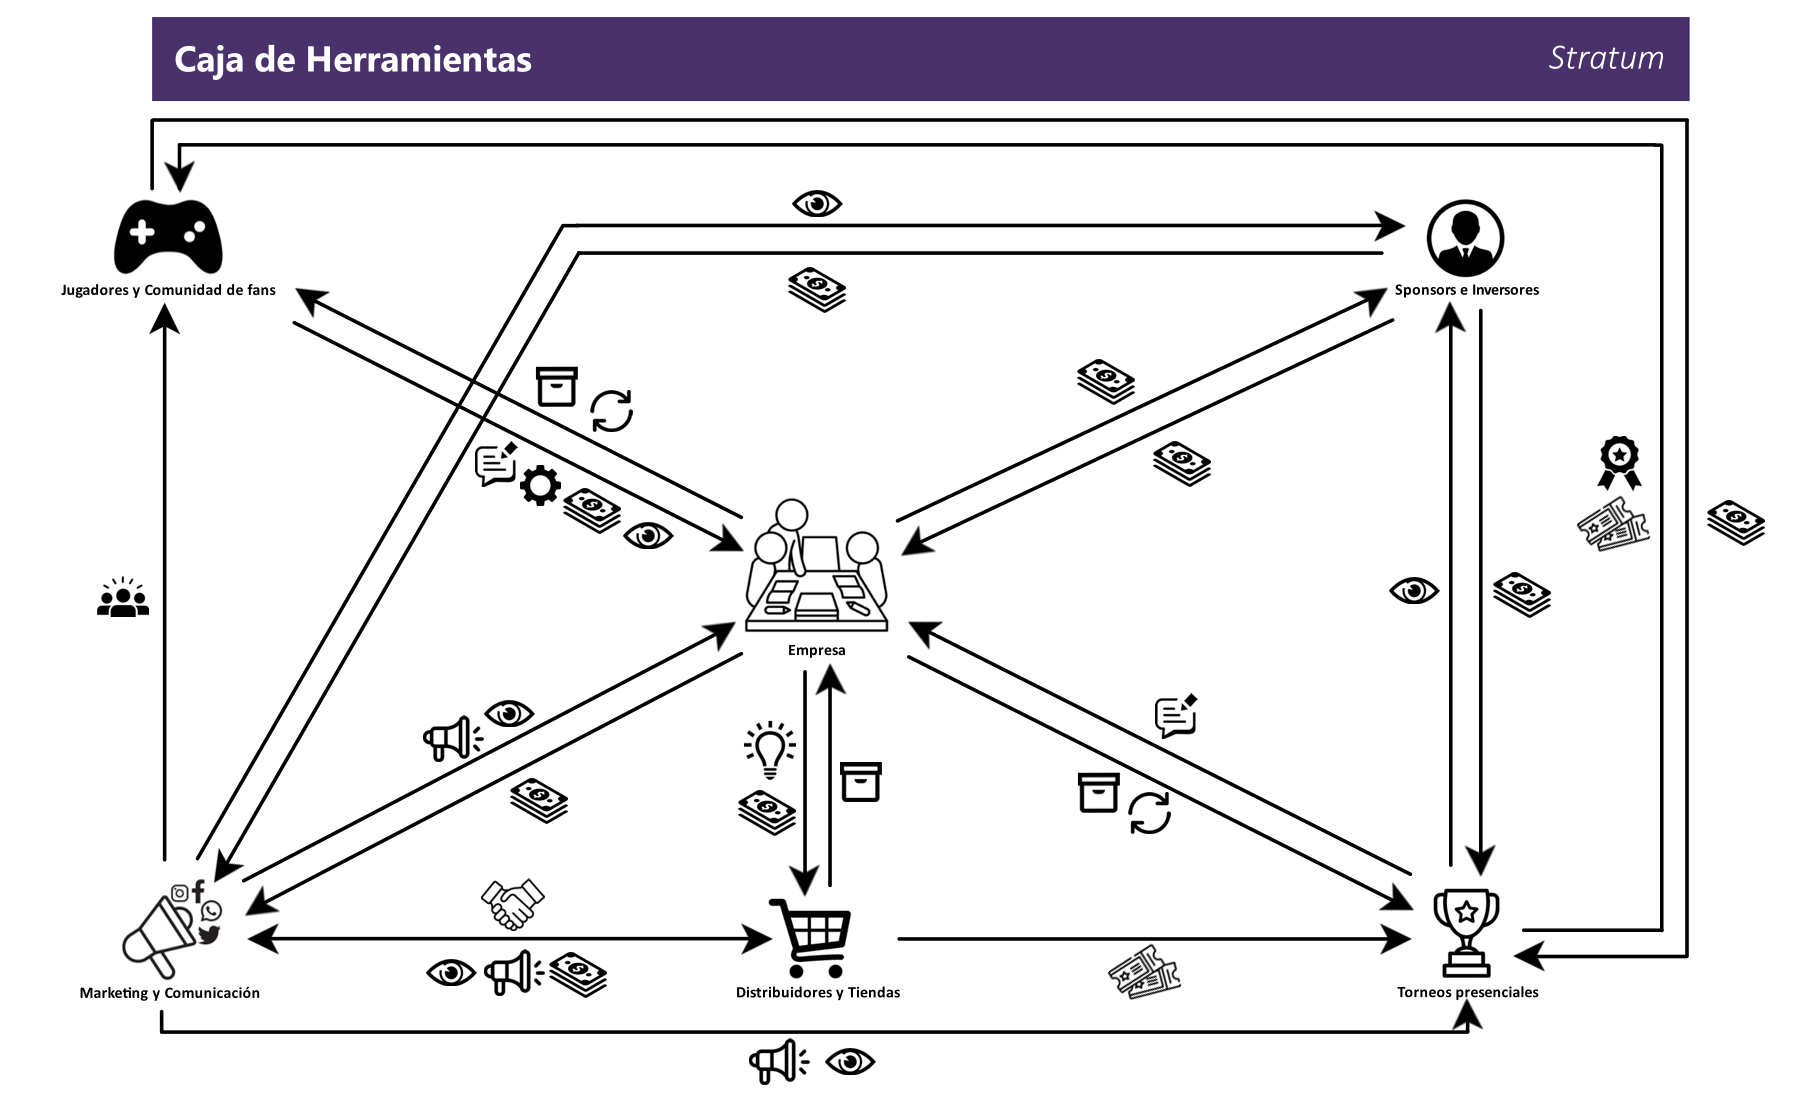
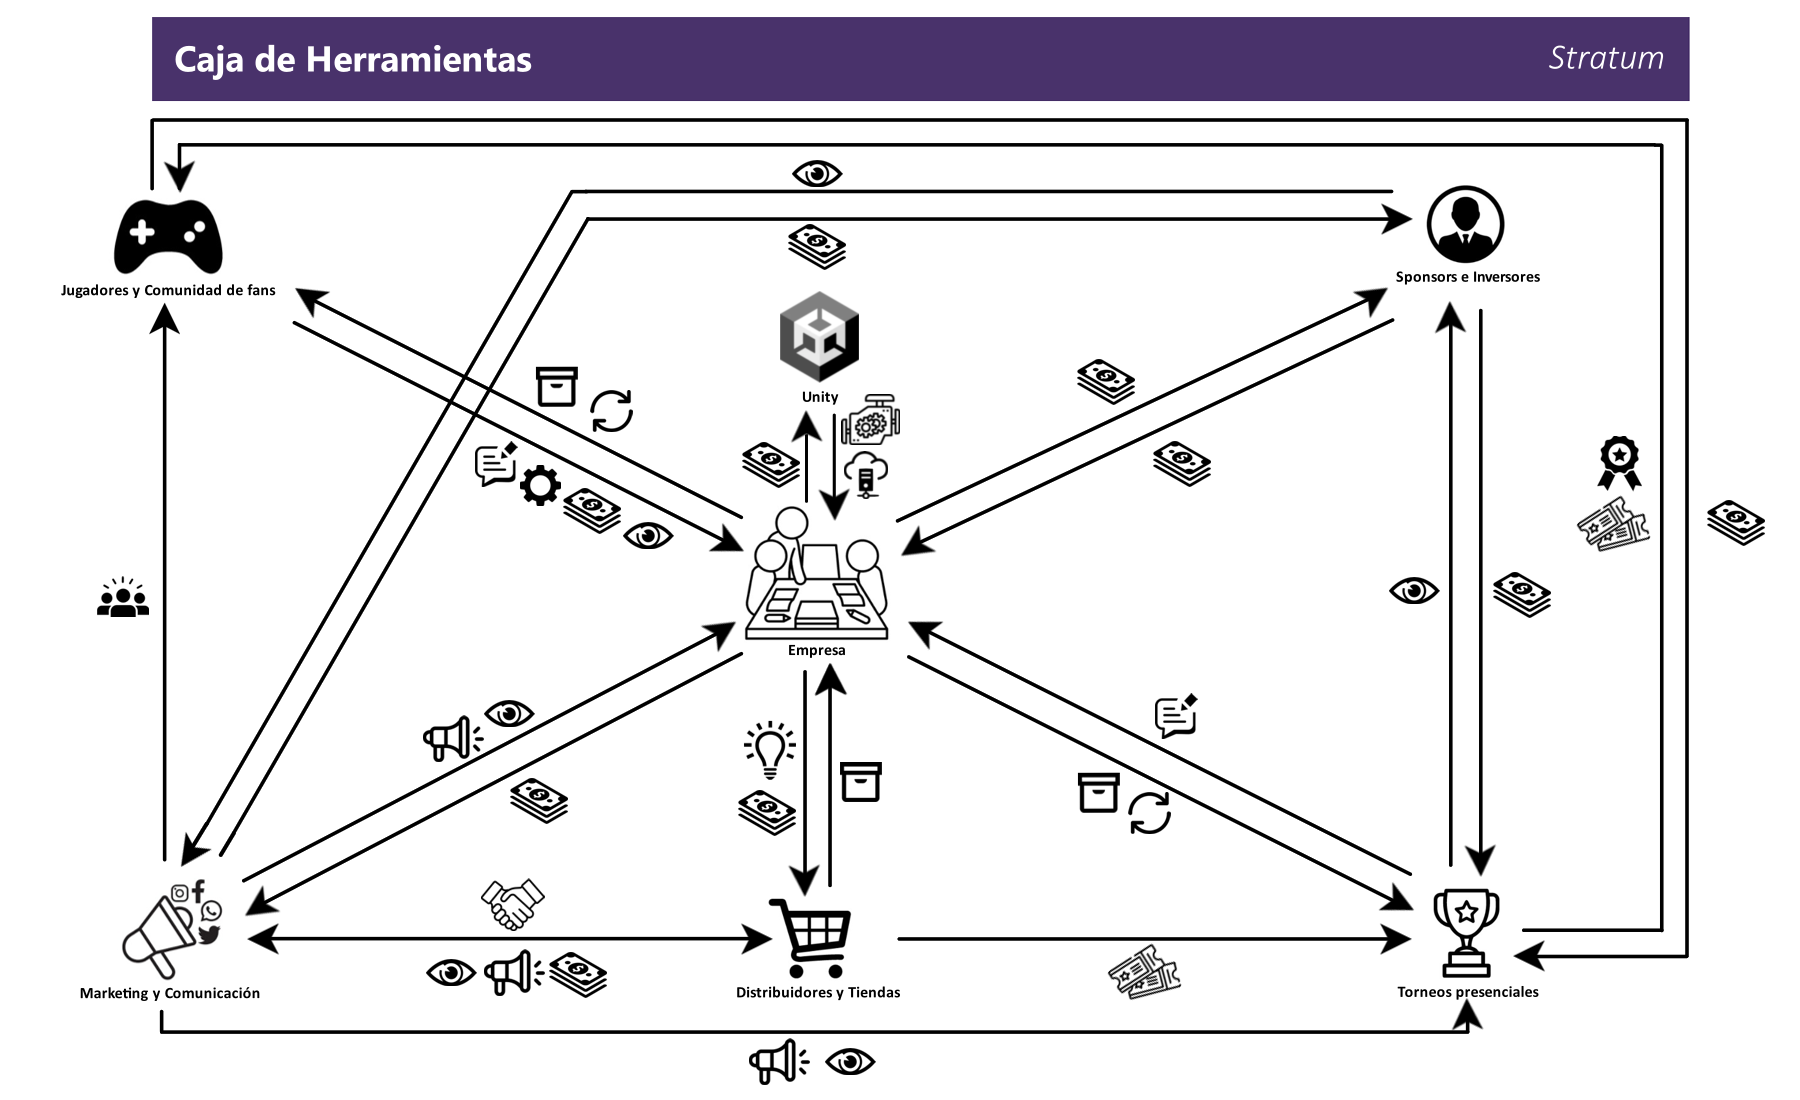
Actualización Caja de herramientas
Se ha agregado Unity a la caja de herramientas y se han actualizado también las img de la caja de herramientas y su leyenda.

diff --git a/README.md b/README.md
@@ -549,7 +549,7 @@ El juego está dirigido a jugadores de +13 años, que pueden ser tanto casuales 
 En este documento, se presenta una "caja de herramientas" que examina seis bloques principales de stakeholders, detallando sus responsabilidades y cómo interactúan entre sí para fortalecer la escena competitiva. Cada grupo contribuye a su manera a la evolución del juego, desde la creación de contenido y la organización de eventos hasta la promoción y financiamiento.
 Todos ellos con un **objetivo común: mantener viva y activa la comunidad, asegurar un entorno competitivo atractivo y garantizar la viabilidad del negocio.**
 
-### Seis bloques principales (stakeholders):
+### Siete bloques principales (stakeholders):
 #### 1. Jugadores y comunidad de fans (clientes y usuarios finales):
 Este bloque representa a los usuarios del juego, quienes no solo participan activamente en las partidas competitivas, sino que también son una comunidad que crea y consume contenido alrededor del juego (streams, vídeos, foros, etc.). Estos jugadores buscan mejorar sus habilidades, ganar torneos, obtener reconocimiento, y también contribuyen al crecimiento del juego al compartir sus experiencias, estrategias y generar discusiones.
 
@@ -569,6 +569,9 @@ Empresas o marcas que patrocinan torneos y eventos competitivos, ofreciendo recu
 
 #### 6. Marketing y comunicación (mediadores):
 Los encargados de hacer llegar el juego al público objetivo, a través de estrategias de branding, redes sociales, eventos de lanzamiento, campañas publicitarias y colaboración con influencers de juegos de mesa y rol.
+
+#### 7. Unity:
+La empresa paga a Unity por el uso de sus servicios de Unity Cloud, incluyendo Unity Relay y Unity Matchmaking, para alojar los servidores y gestionar las partidas en línea. A cambio, Unity proporciona la infraestructura necesaria para el hosting, conexión entre jugadores y organización de partidas multijugador. Además, la empresa hace uso del motor de juego para el desarrollo del videojuego.
 
 
 ### Relaciones entre los bloques:
@@ -615,6 +618,10 @@ Colaboran en la creación de campañas para incrementar el número de ventas y d
 
 #### Sponsors e inversores - Marketing:
 Los sponsors también colaboran con el equipo de marketing para asegurarse de tener la visibilidad adecuada en todas las campañas de marketing.
+
+#### Empresa - Unity:
+La empresa paga por los servicios en la nube de Unity (Unity cloud, relay y matchmaking), garantizando la infraestructura y soporte necesarios para el juego en línea.
+Unity proporciona el motor de juego gratuito y servicios de infraestructura que facilitan el hosting y el emparejamiento de jugadores.
 
 ### Esquema
 ![Caja de Herramientas](/Readme%20Files/Caja_de_Herramientas.png)
